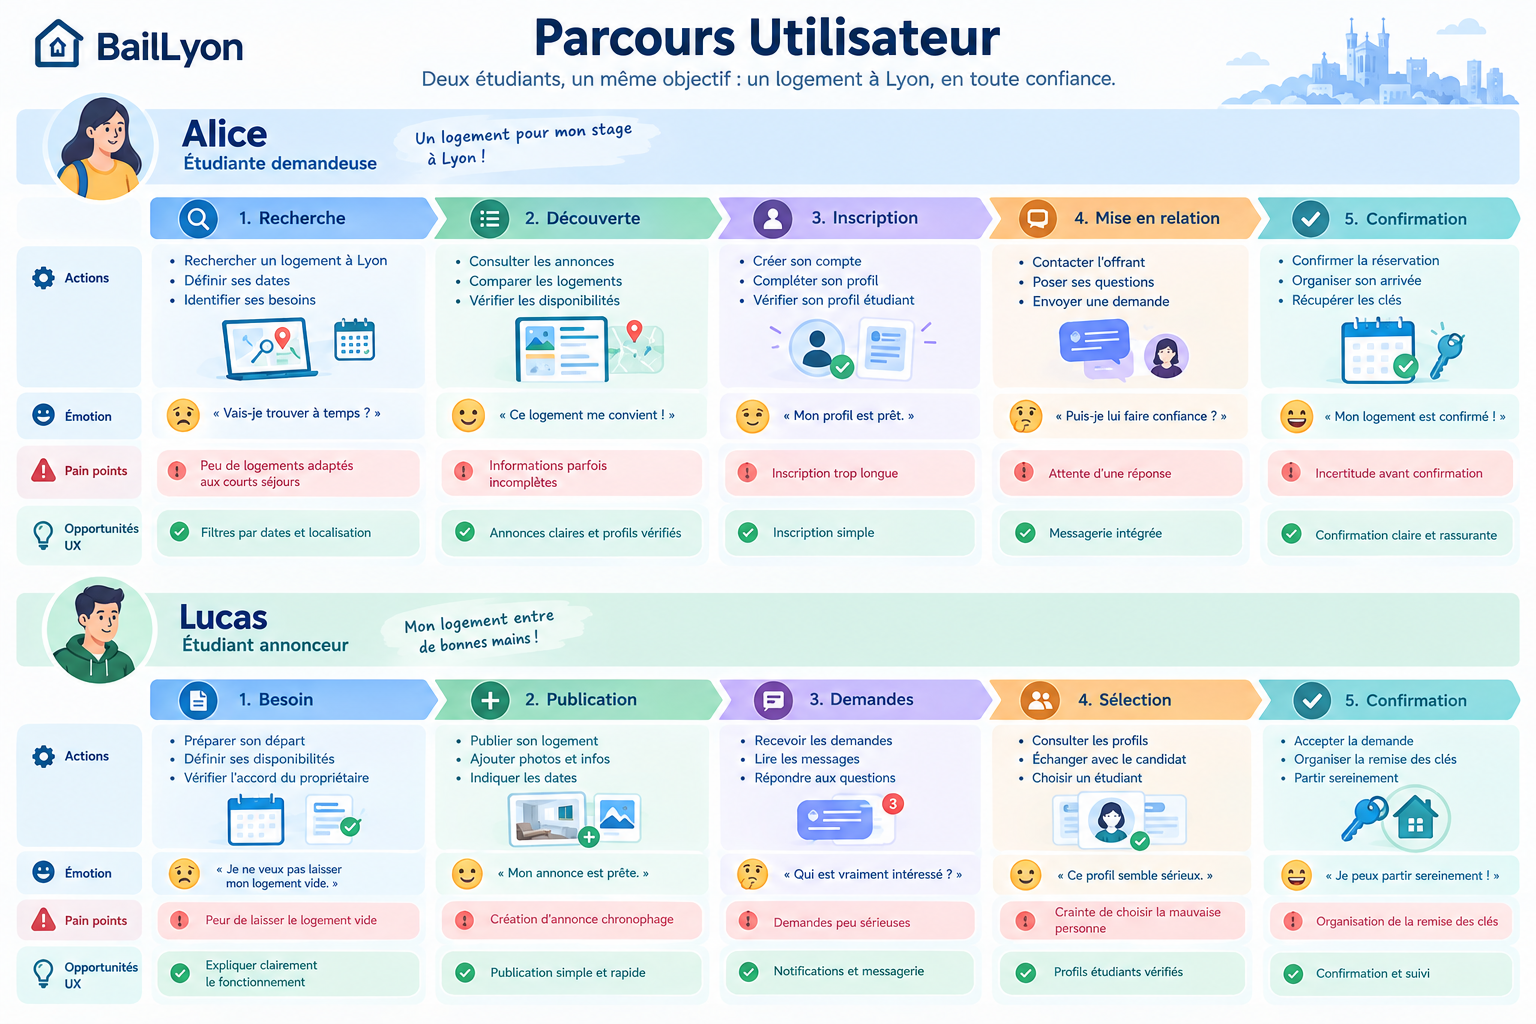
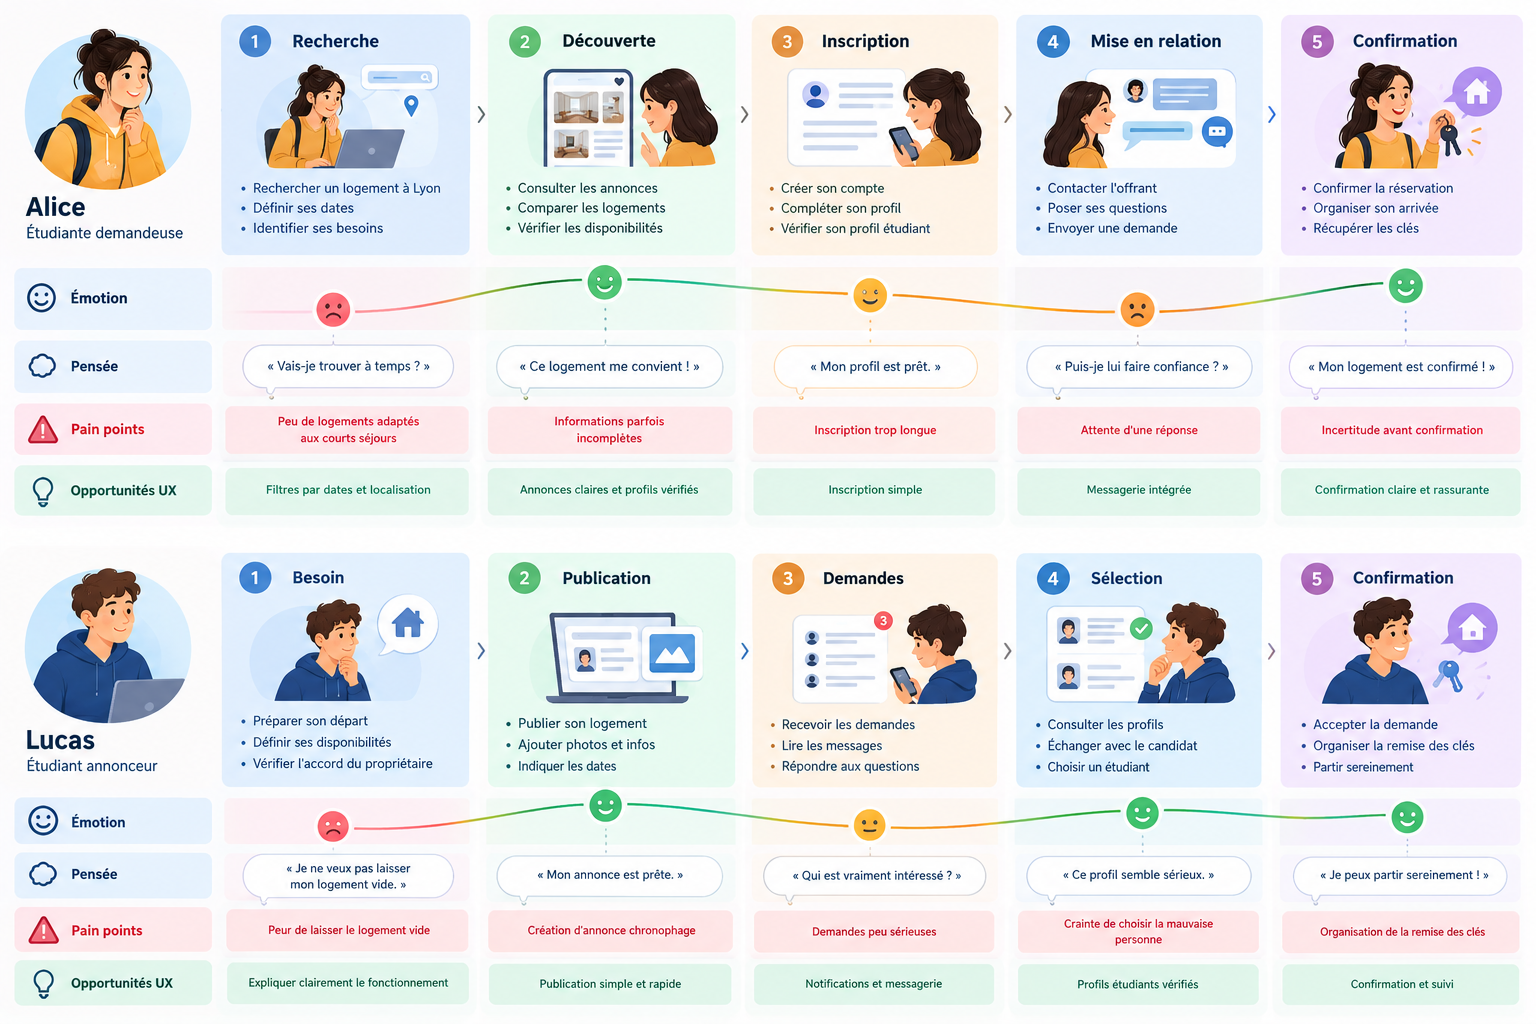
feat: change image

diff --git a/components/sections/ParcoursUtilisateurs.tsx b/components/sections/ParcoursUtilisateurs.tsx
@@ -149,17 +149,6 @@ function Storyboard() {
   );
 }
 
-function CroppedPlanche({ src, alt, visibleHeight }: { src: string; alt: string; visibleHeight: number }) {
-  return (
-    <div
-      className="relative overflow-hidden rounded-3xl border border-purple-100 shadow-sm"
-      style={{ aspectRatio: `1536 / ${visibleHeight}` }}
-    >
-      <Image src={src} alt={alt} fill unoptimized className="object-cover object-bottom" />
-    </div>
-  );
-}
-
 /* ── SECTION TITLE ── */
 function SectionTitle({ number, title }: { number: string; title: string }) {
   return (
@@ -200,10 +189,13 @@ export default function ParcoursUtilisateurs() {
 
         <section className="mb-20">
           <SectionTitle number="03" title="User Journey Map" />
-          <CroppedPlanche
+          <Image
             src="/images/parcours_utilisateurs/user_journey.png"
             alt="Parcours utilisateur d'Alice (recherche, découverte, inscription, mise en relation, confirmation) et de Lucas (besoin, publication, demandes, sélection, confirmation) : actions, émotions, pain points et opportunités UX à chaque étape"
-            visibleHeight={932}
+            width={1536}
+            height={1024}
+            unoptimized
+            className="w-full h-auto rounded-3xl border border-purple-100 shadow-sm"
           />
         </section>
       </div>
